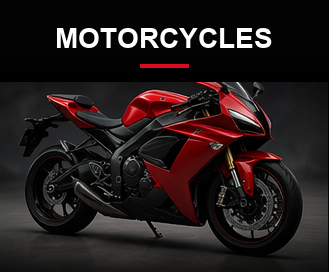
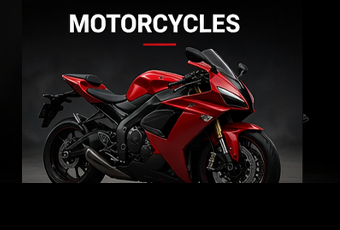
Use source motorcycle crop without overlay scaling

diff --git a/styles.css b/styles.css
@@ -344,6 +344,8 @@ address svg {
 
 .card-motorcycle {
   background-image: url("/public/assets/crops/motorcycle.png");
+  background-color: #030303;
+  background-size: contain;
   background-position: center bottom;
 }
 